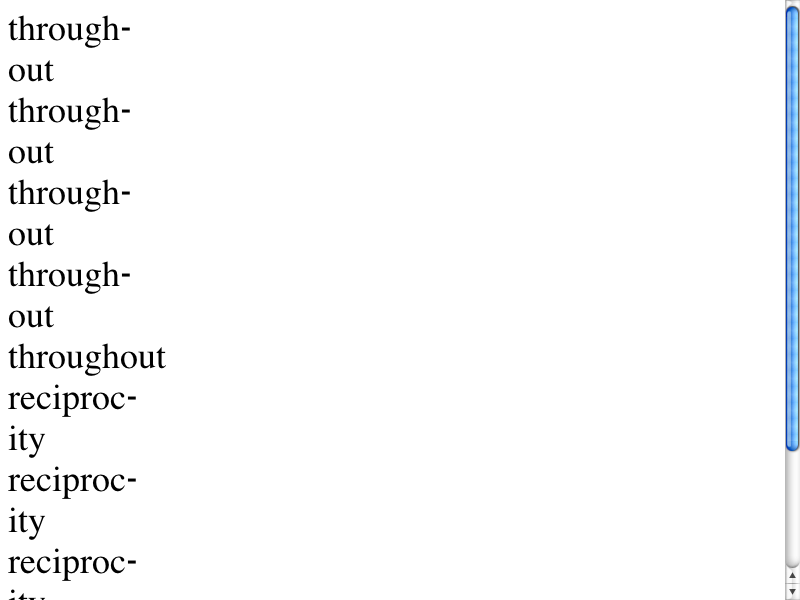
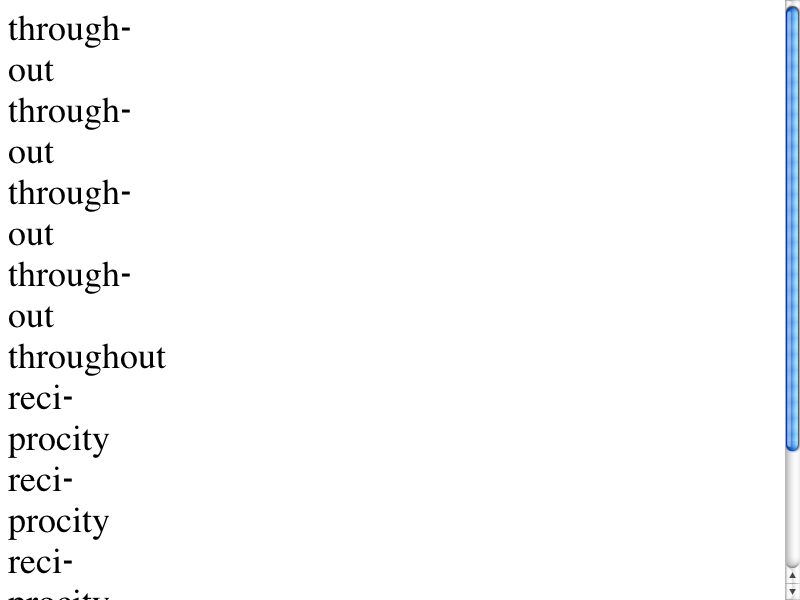
<rdar://problem/8285090> First word on a line doesn’t hyphenate properly https://bugs.webkit.org/show_bug.cgi?id=43679
Reviewed by Anders Carlsson.

WebCore:

Test: fast/text/hyphenate-first-word.html

* rendering/RenderBlockLineLayout.cpp:
(WebCore::tryHyphenating): The character at lastSpace is not necessarily a whitespace character
before the current word. It can also be part of the word, such as when the word is the first
one on the line. Include the charcater at lastSpace in the string passed to lastHyphenLocation().

LayoutTests:

* fast/text/hyphenate-first-word.html: Added.
* platform/mac/fast/text/hyphenate-first-word-expected.checksum: Added.
* platform/mac/fast/text/hyphenate-first-word-expected.png: Added.
* platform/mac/fast/text/hyphenate-first-word-expected.txt: Added.
* platform/mac/fast/text/hyphenate-locale-expected.checksum:
* platform/mac/fast/text/hyphenate-locale-expected.png:
* platform/mac/fast/text/hyphenate-locale-expected.txt:

Identifier: 55733@main
git-svn-id: https://svn.webkit.org/repository/webkit/trunk@64920 268f45cc-cd09-0410-ab3c-d52691b4dbfc

diff --git a/LayoutTests/fast/text/hyphenate-first-word.html b/LayoutTests/fast/text/hyphenate-first-word.html
@@ -1,0 +1,1 @@
+<div style="font-size: 96px; border: solid; width: 220px; -webkit-hyphens: auto; -webkit-hyphenate-locale: 'en_US'">declination</div>

diff --git a/WebCore/rendering/RenderBlockLineLayout.cpp b/WebCore/rendering/RenderBlockLineLayout.cpp
@@ -1331,8 +1331,8 @@ static void tryHyphenating(RenderText* text, const Font& font, const AtomicStrin
     if (!prefixLength)
         return;
 
-    prefixLength = 1 + lastHyphenLocation(text->characters() + lastSpace + 1, pos - lastSpace - 1, prefixLength, localeIdentifier);
-    if (prefixLength <= 1)
+    prefixLength = lastHyphenLocation(text->characters() + lastSpace, pos - lastSpace, prefixLength + 1, localeIdentifier);
+    if (!prefixLength)
         return;
 
 #if !ASSERT_DISABLED
